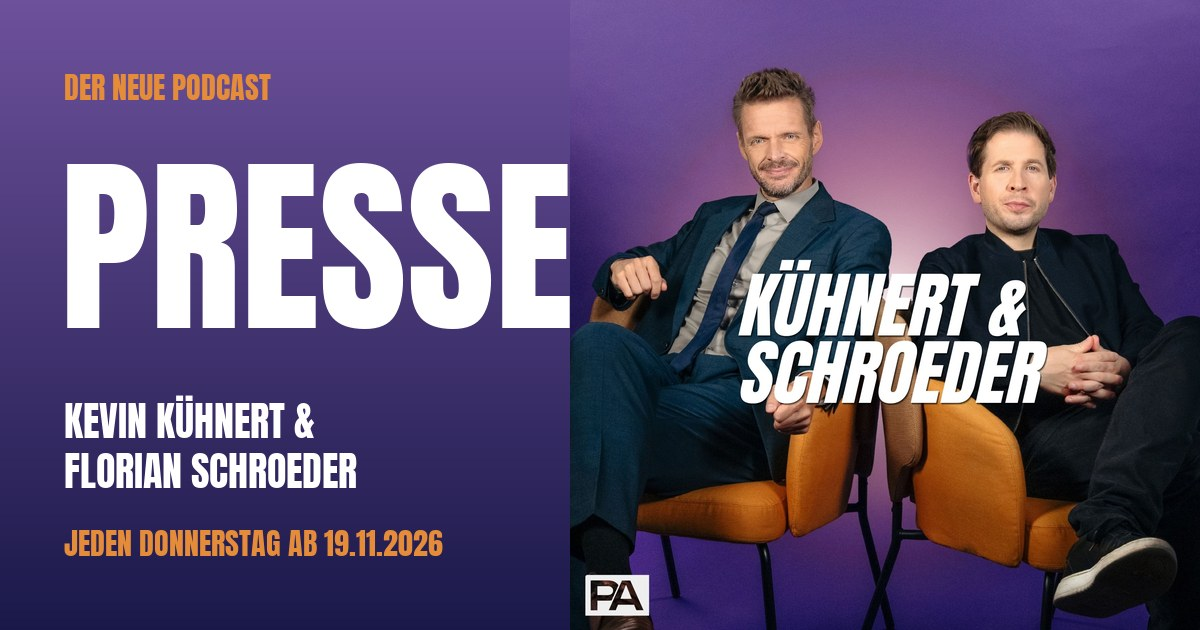
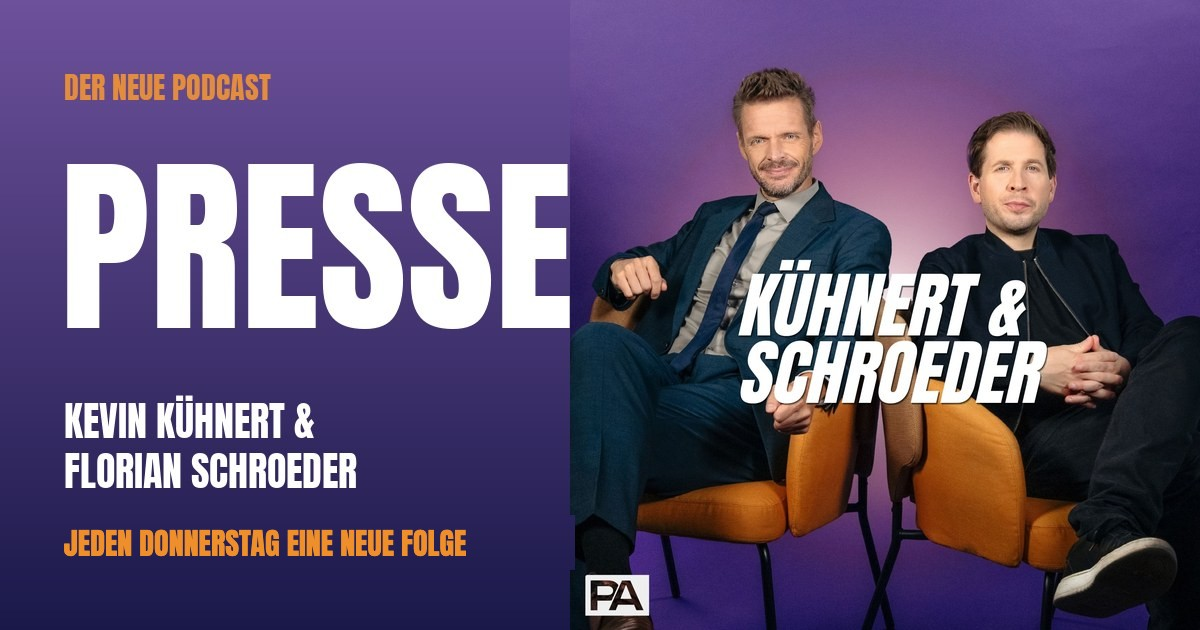
Start: Texte auf 'jeden Donnerstag eine neue Folge' umgestellt, Plattform-Links direkt im HTML, Presse-Vorschaubild ohne Startdatum

Changed region(s): [[0.0308, 0.8143, 0.4008, 0.9048], [0.4625, 0.8143, 0.4933, 0.9048]]

diff --git a/index.html b/index.html
@@ -4,7 +4,7 @@
 <meta charset="UTF-8">
 <meta name="viewport" content="width=device-width, initial-scale=1.0">
 <title>Kühnert &amp; Schroeder – Der Podcast</title>
-<meta name="description" content="Kühnert &amp; Schroeder – der neue Podcast von Kevin Kühnert und Florian Schroeder. Jeden Donnerstag ab 19. November 2026.">
+<meta name="description" content="Kühnert &amp; Schroeder – der neue Podcast von Kevin Kühnert und Florian Schroeder. Jeden Donnerstag eine neue Folge – überall, wo es Podcasts gibt.">
 <link rel="canonical" href="https://www.kuehnertundschroeder.de/">
 <meta name="theme-color" content="#1a1849">
 
@@ -13,14 +13,14 @@
 <meta property="og:site_name" content="Kühnert &amp; Schroeder">
 <meta property="og:locale" content="de_DE">
 <meta property="og:title" content="Kühnert &amp; Schroeder – Der Podcast">
-<meta property="og:description" content="Kühnert &amp; Schroeder – der neue Podcast von Kevin Kühnert und Florian Schroeder. Jeden Donnerstag ab 19. November 2026.">
+<meta property="og:description" content="Kühnert &amp; Schroeder – der neue Podcast von Kevin Kühnert und Florian Schroeder. Jeden Donnerstag eine neue Folge – überall, wo es Podcasts gibt.">
 <meta property="og:image" content="https://www.kuehnertundschroeder.de/img/og-home.jpg">
 <meta property="og:image:width" content="1200">
 <meta property="og:image:height" content="630">
 <meta property="og:image:alt" content="Podcast-Cover Kühnert &amp; Schroeder">
 <meta name="twitter:card" content="summary_large_image">
 <meta name="twitter:title" content="Kühnert &amp; Schroeder – Der Podcast">
-<meta name="twitter:description" content="Kühnert &amp; Schroeder – der neue Podcast von Kevin Kühnert und Florian Schroeder. Jeden Donnerstag ab 19. November 2026.">
+<meta name="twitter:description" content="Kühnert &amp; Schroeder – der neue Podcast von Kevin Kühnert und Florian Schroeder. Jeden Donnerstag eine neue Folge – überall, wo es Podcasts gibt.">
 <meta name="twitter:image" content="https://www.kuehnertundschroeder.de/img/og-home.jpg">
 
 <link rel="icon" href="/img/favicon.ico" sizes="any">
@@ -49,7 +49,7 @@
         <span class="line">Kühnert &amp; </span><span class="line">Schroeder</span>
       </h1>
       <p class="hero-sub"><span class="line">Der neue Podcast von </span><span class="line">Kevin Kühnert &amp; Florian Schroeder.</span></p>
-      <p class="hero-date"><span class="line">Jeden Donnerstag </span><span class="line">ab 19. November 2026</span></p>
+      <p class="hero-date"><span class="line">Jeden Donnerstag </span><span class="line">eine neue Folge</span></p>
       <div class="hero-actions">
         <a class="button button-large" href="#hoeren" data-track="hero_jetzt_hoeren">Jetzt hören</a>
       </div>
@@ -67,38 +67,38 @@
       <div>
         <p class="eyebrow">Jetzt hören</p>
         <h2 id="hoeren-title" class="section-title">Überall, wo es Podcasts gibt.</h2>
-        <p class="lead">Kühnert &amp; Schroeder gibt es überall, wo es Podcasts gibt – in Audio und Video.</p>
+        <p class="lead">Jeden Donnerstag erscheint eine neue Folge – als Audio und als Video. Einfach abonnieren und keine Folge verpassen.</p>
       </div>
       <ul class="platforms" aria-label="Podcast-Plattformen">
-      <li><a class="platform is-pending" data-platform="spotify" aria-disabled="true">
+      <li><a class="platform" data-platform="spotify" href="https://open.spotify.com/show/5epA240nGssDsUqKTvniwf" target="_blank" rel="noopener">
         <span class="platform-logo"><svg viewBox="0 0 24 24" aria-hidden="true" focusable="false"><path d="M12 0C5.4 0 0 5.4 0 12s5.4 12 12 12 12-5.4 12-12S18.66 0 12 0zm5.521 17.34c-.24.359-.66.48-1.021.24-2.82-1.74-6.36-2.101-10.561-1.141-.418.122-.779-.179-.899-.539-.12-.421.18-.78.54-.9 4.56-1.021 8.52-.6 11.64 1.32.42.18.479.659.301 1.02zm1.44-3.3c-.301.42-.841.6-1.262.3-3.239-1.98-8.159-2.58-11.939-1.38-.479.12-1.02-.12-1.14-.6-.12-.48.12-1.021.6-1.141C9.6 9.9 15 10.561 18.72 12.84c.361.181.54.78.241 1.2zm.12-3.36C15.24 8.4 8.82 8.16 5.16 9.301c-.6.179-1.2-.181-1.38-.721-.18-.601.18-1.2.72-1.381 4.26-1.26 11.28-1.02 15.721 1.621.539.3.719 1.02.419 1.56-.299.421-1.02.599-1.559.3z"/></svg></span>
         <span class="platform-name">Spotify</span>
-        <span class="platform-go">Folgt in Kürze</span>
+        <span class="platform-go" aria-hidden="true">›</span>
       </a></li>
-      <li><a class="platform is-pending" data-platform="apple" aria-disabled="true">
+      <li><a class="platform" data-platform="apple" href="https://podcasts.apple.com/us/podcast/k%C3%BChnert-schroeder/id6831165042" target="_blank" rel="noopener">
         <span class="platform-logo"><svg viewBox="0 0 24 24" aria-hidden="true" focusable="false"><path d="M5.34 0A5.328 5.328 0 000 5.34v13.32A5.328 5.328 0 005.34 24h13.32A5.328 5.328 0 0024 18.66V5.34A5.328 5.328 0 0018.66 0zm6.525 2.568c2.336 0 4.448.902 6.056 2.587 1.224 1.272 1.912 2.619 2.264 4.392.12.59.12 2.2.007 2.864a8.506 8.506 0 01-3.24 5.296c-.608.46-2.096 1.261-2.336 1.261-.088 0-.096-.091-.056-.46.072-.592.144-.715.48-.856.536-.224 1.448-.874 2.008-1.435a7.644 7.644 0 002.008-3.536c.208-.824.184-2.656-.048-3.504-.728-2.696-2.928-4.792-5.624-5.352-.784-.16-2.208-.16-3 0-2.728.56-4.984 2.76-5.672 5.528-.184.752-.184 2.584 0 3.336.456 1.832 1.64 3.512 3.192 4.512.304.2.672.408.824.472.336.144.408.264.472.856.04.36.03.464-.056.464-.056 0-.464-.176-.896-.384l-.04-.03c-2.472-1.216-4.056-3.274-4.632-6.012-.144-.706-.168-2.392-.03-3.04.36-1.74 1.048-3.1 2.192-4.304 1.648-1.737 3.768-2.656 6.128-2.656zm.134 2.81c.409.004.803.04 1.106.106 2.784.62 4.76 3.408 4.376 6.174-.152 1.114-.536 2.03-1.216 2.88-.336.43-1.152 1.15-1.296 1.15-.023 0-.048-.272-.048-.603v-.605l.416-.496c1.568-1.878 1.456-4.502-.256-6.224-.664-.67-1.432-1.064-2.424-1.246-.64-.118-.776-.118-1.448-.008-1.02.167-1.81.562-2.512 1.256-1.72 1.704-1.832 4.342-.264 6.222l.413.496v.608c0 .336-.027.608-.06.608-.03 0-.264-.16-.512-.36l-.034-.011c-.832-.664-1.568-1.842-1.872-2.997-.184-.698-.184-2.024.008-2.72.504-1.878 1.888-3.335 3.808-4.019.41-.145 1.133-.22 1.814-.211zm-.13 2.99c.31 0 .62.06.844.178.488.253.888.745 1.04 1.259.464 1.578-1.208 2.96-2.72 2.254h-.015c-.712-.331-1.096-.956-1.104-1.77 0-.733.408-1.371 1.112-1.745.224-.117.534-.176.844-.176zm-.011 4.728c.988-.004 1.706.349 1.97.97.198.464.124 1.932-.218 4.302-.232 1.656-.36 2.074-.68 2.356-.44.39-1.064.498-1.656.288h-.003c-.716-.257-.87-.605-1.164-2.644-.341-2.37-.416-3.838-.218-4.302.262-.616.974-.966 1.97-.97z"/></svg></span>
         <span class="platform-name">Apple Podcasts</span>
-        <span class="platform-go">Folgt in Kürze</span>
+        <span class="platform-go" aria-hidden="true">›</span>
       </a></li>
-      <li><a class="platform is-pending" data-platform="amazon" aria-disabled="true">
+      <li><a class="platform" data-platform="amazon" href="https://music.amazon.de/podcasts/9eaac077-c352-44f6-865f-0f1939f7d84d" target="_blank" rel="noopener">
         <span class="platform-logo"><span class="logo-amazon" aria-hidden="true"></span></span>
         <span class="platform-name">Amazon Music</span>
-        <span class="platform-go">Folgt in Kürze</span>
+        <span class="platform-go" aria-hidden="true">›</span>
       </a></li>
-      <li><a class="platform is-pending" data-platform="deezer" aria-disabled="true">
+      <li><a class="platform" data-platform="deezer" href="https://www.deezer.com/de/show/1003731681" target="_blank" rel="noopener">
         <span class="platform-logo"><svg viewBox="0 0 24 24" aria-hidden="true" focusable="false"><path d="M.693 10.024c.381 0 .693-1.256.693-2.807 0-1.55-.312-2.807-.693-2.807C.312 4.41 0 5.666 0 7.217s.312 2.808.693 2.808ZM21.038 1.56c-.364 0-.684.805-.91 2.096C19.765 1.446 19.184 0 18.526 0c-.78 0-1.464 2.036-1.784 5-.312-2.158-.788-3.536-1.325-3.536-.745 0-1.386 2.704-1.62 6.472-.442-1.932-1.083-3.145-1.793-3.145s-1.35 1.213-1.793 3.145c-.242-3.76-.874-6.463-1.628-6.463-.537 0-1.013 1.378-1.325 3.535C6.938 2.036 6.262 0 5.474 0c-.658 0-1.247 1.447-1.602 3.665-.217-1.291-.546-2.105-.91-2.105-.675 0-1.221 2.807-1.221 6.272 0 3.466.546 6.273 1.221 6.273.277 0 .537-.476.736-1.273.32 2.928.996 4.938 1.776 4.938.606 0 1.143-1.204 1.507-3.11.251 3.622.875 6.195 1.602 6.195.46 0 .875-1.023 1.187-2.677C10.142 21.6 11 24 12.004 24c1.005 0 1.863-2.4 2.235-5.822.312 1.654.727 2.677 1.186 2.677.728 0 1.352-2.573 1.603-6.195.364 1.906.9 3.11 1.507 3.11.78 0 1.455-2.01 1.775-4.938.208.797.46 1.273.737 1.273.675 0 1.22-2.807 1.22-6.273-.008-3.457-.553-6.272-1.23-6.272ZM23.307 10.024c.381 0 .693-1.256.693-2.807 0-1.55-.312-2.807-.693-2.807-.381 0-.693 1.256-.693 2.807s.312 2.808.693 2.808Z"/></svg></span>
         <span class="platform-name">Deezer</span>
-        <span class="platform-go">Folgt in Kürze</span>
+        <span class="platform-go" aria-hidden="true">›</span>
       </a></li>
-      <li><a class="platform is-pending" data-platform="youtube" aria-disabled="true">
+      <li><a class="platform" data-platform="youtube" href="https://www.youtube.com/@KuehnertundSchroeder" target="_blank" rel="noopener">
         <span class="platform-logo"><svg viewBox="0 0 24 24" aria-hidden="true" focusable="false"><path d="M23.498 6.186a3.016 3.016 0 0 0-2.122-2.136C19.505 3.545 12 3.545 12 3.545s-7.505 0-9.377.505A3.017 3.017 0 0 0 .502 6.186C0 8.07 0 12 0 12s0 3.93.502 5.814a3.016 3.016 0 0 0 2.122 2.136c1.871.505 9.376.505 9.376.505s7.505 0 9.377-.505a3.015 3.015 0 0 0 2.122-2.136C24 15.93 24 12 24 12s0-3.93-.502-5.814zM9.545 15.568V8.432L15.818 12l-6.273 3.568z"/></svg></span>
         <span class="platform-name">YouTube</span>
-        <span class="platform-go">Folgt in Kürze</span>
+        <span class="platform-go" aria-hidden="true">›</span>
       </a></li>
-      <li><a class="platform is-pending" data-platform="rtl" aria-disabled="true">
+      <li><a class="platform" data-platform="rtl" href="https://plus.rtl.de/kuhnert-schroeder-p_285238" target="_blank" rel="noopener">
         <span class="platform-logo"><svg class="logo-rtl" viewBox="0 0 40 9" preserveAspectRatio="none" aria-hidden="true" focusable="false"><g transform="scale(0.04115 0.0625) translate(-567 -498)"><path fill-rule="evenodd" d="M567 498h256v144H567zM638 610V532h80c20 0 30 11 30 27 0 15-10 25-26 27l26 24h-27l-24-23h-37v23zm22-58v16h56c7 0 10-3 10-8s-3-8-10-8z"/><path fill-rule="evenodd" d="M848 498h256v144H848zM922 532h108v20h-43v58h-22v-58h-43z"/><path fill-rule="evenodd" d="M1130 498h255v144h-255zM1210 532h22v57h74v21h-96z"/></g><path d="M36.6 1.4h1.3v2.4h2.1v1.3h-2.1v2.4h-1.3V5.1h-2.1V3.8h2.1z"/></svg></span>
         <span class="platform-name">RTL+</span>
-        <span class="platform-go">Folgt in Kürze</span>
+        <span class="platform-go" aria-hidden="true">›</span>
       </a></li>
       </ul>
     </div>

diff --git a/vorab.html b/vorab.html
@@ -4,7 +4,7 @@
 <meta charset="UTF-8">
 <meta name="viewport" content="width=device-width, initial-scale=1.0">
 <title>Vorab für die Presse | Kühnert &amp; Schroeder</title>
-<meta name="description" content="Die ersten beiden Folgen von Kühnert &amp; Schroeder vorab – exklusiv für die Presse.">
+<meta name="description" content="Folge 1 und 2 von Kühnert &amp; Schroeder zum Download – exklusiv für die Presse.">
 <meta name="robots" content="noindex, nofollow">
 <meta name="theme-color" content="#1a1849">
 
@@ -12,8 +12,8 @@
 <meta property="og:site_name" content="Kühnert &amp; Schroeder">
 <meta property="og:locale" content="de_DE">
 <meta property="og:title" content="Vorab für die Presse | Kühnert &amp; Schroeder">
-<meta property="og:description" content="Die ersten beiden Folgen von Kühnert &amp; Schroeder vorab – exklusiv für die Presse.">
-<meta property="og:image" content="https://www.kuehnertundschroeder.de/img/og-presse.jpg">
+<meta property="og:description" content="Folge 1 und 2 von Kühnert &amp; Schroeder zum Download – exklusiv für die Presse.">
+<meta property="og:image" content="https://www.kuehnertundschroeder.de/img/og-presse.jpg?v=2">
 <meta property="og:image:width" content="1200">
 <meta property="og:image:height" content="630">
 <meta property="og:image:alt" content="Kühnert &amp; Schroeder">
@@ -46,8 +46,8 @@
       <h1 id="hero-title" class="wordmark">
         <span class="line">Kühnert &amp; </span><span class="line">Schroeder</span>
       </h1>
-      <p class="hero-sub"><span class="line">Die ersten beiden Folgen vorab – </span><span class="line">exklusiv für die Presse.</span></p>
-      <p class="hero-date"><span class="line">Jeden Donnerstag </span><span class="line">ab 19. November 2026</span></p>
+      <p class="hero-sub"><span class="line">Folge 1 und 2 zum Download – </span><span class="line">exklusiv für die Presse.</span></p>
+      <p class="hero-date"><span class="line">Jeden Donnerstag </span><span class="line">eine neue Folge</span></p>
       <div class="hero-actions">
         <a class="button button-large" href="https://web.tresorit.com/l/ONJGL#eEtygWU8MTOjBCXIQpPowA" data-track="vorab_folge1" target="_blank" rel="noopener"
            aria-label="Download Folge 1 (öffnet Tresorit in neuem Tab)">

diff --git a/presse.html b/presse.html
@@ -14,14 +14,14 @@
 <meta property="og:locale" content="de_DE">
 <meta property="og:title" content="Presse | Kühnert &amp; Schroeder">
 <meta property="og:description" content="Presseinformationen, Pressefotos und Downloads zum Podcast Kühnert &amp; Schroeder mit Kevin Kühnert und Florian Schroeder.">
-<meta property="og:image" content="https://www.kuehnertundschroeder.de/img/og-presse.jpg">
+<meta property="og:image" content="https://www.kuehnertundschroeder.de/img/og-presse.jpg?v=2">
 <meta property="og:image:width" content="1200">
 <meta property="og:image:height" content="630">
 <meta property="og:image:alt" content="Kühnert &amp; Schroeder – Presse">
 <meta name="twitter:card" content="summary_large_image">
 <meta name="twitter:title" content="Presse | Kühnert &amp; Schroeder">
 <meta name="twitter:description" content="Presseinformationen, Pressefotos und Downloads zum Podcast Kühnert &amp; Schroeder mit Kevin Kühnert und Florian Schroeder.">
-<meta name="twitter:image" content="https://www.kuehnertundschroeder.de/img/og-presse.jpg">
+<meta name="twitter:image" content="https://www.kuehnertundschroeder.de/img/og-presse.jpg?v=2">
 
 <link rel="icon" href="/img/favicon.ico" sizes="any">
 <link rel="icon" type="image/png" sizes="16x16" href="/img/favicon-16x16.png">
@@ -50,7 +50,7 @@
         <span class="line">Kühnert &amp; </span><span class="line">Schroeder</span>
       </h1>
       <p class="hero-sub"><span class="line">Der neue Podcast von </span><span class="line">Kevin Kühnert &amp; Florian Schroeder.</span></p>
-      <p class="hero-date"><span class="line">Jeden Donnerstag </span><span class="line">ab 19. November 2026</span></p>
+      <p class="hero-date"><span class="line">Jeden Donnerstag </span><span class="line">eine neue Folge</span></p>
       <div class="hero-actions">
         <a class="button button-large" href="https://web.tresorit.com/l/RP6ip#YKVqfWy77ulPY-eOzIOCBA" data-track="presse_pressemappe" target="_blank" rel="noopener"
            aria-label="Pressemappe inklusive Pressemitteilung downloaden (öffnet Tresorit in neuem Tab)">

diff --git a/js/config.js b/js/config.js
@@ -1,6 +1,7 @@
 /*
  * Podcast-Links – hier die finalen URLs eintragen.
- * Solange ein Link "#" ist, zeigt die Startseite „Folgt in Kürze“ und der Eintrag ist nicht klickbar.
+ * Die Links stehen zusätzlich direkt in index.html (damit sie auch ohne JavaScript funktionieren).
+ * Bei einer Änderung bitte beide Stellen anpassen. Ein Link "#" zeigt „Folgt in Kürze“ (nur mit JavaScript).
  */
 const podcastLinks = {
   spotify: "https://open.spotify.com/show/5epA240nGssDsUqKTvniwf",

diff --git a/README.md b/README.md
@@ -35,7 +35,7 @@ const podcastLinks = {
 };
 ```
 
-Solange ein Link `"#"` ist, zeigt die Startseite „Folgt in Kürze“ und der Eintrag ist nicht klickbar.
+Die Links stehen zusätzlich direkt in `index.html` (funktionieren so auch ohne JavaScript) – bei Änderungen beide Stellen anpassen.
 
 Logos: Spotify, Apple Podcasts, Deezer und YouTube stammen aus [Simple Icons](https://simpleicons.org) (CC0). Das RTL+-Logo ist einfarbig nach der Vorlage von RTL nachgezeichnet (`.logo-rtl`).
 Das Amazon-Music-Logo steckt als Maske in `css/style.css` (`.logo-amazon`).
@@ -73,3 +73,7 @@ npx serve .
 1. Repo auf GitHub anlegen und pushen.
 2. In Vercel „Add New → Project“, Repo importieren. Framework: *Other*, kein Build-Befehl.
 3. Unter *Settings → Domains* `www.kuehnertundschroeder.de` (und `kuehnertundschroeder.de`) hinzufügen und die DNS-Einträge beim Domain-Anbieter setzen.
+
+## Versteckte Seite /vorab
+
+`vorab.html` bietet der Presse Folge 1 und 2 per Tresorit-Link (passwortgeschützt) zum Download. Die Seite ist nirgends verlinkt und für Suchmaschinen gesperrt (`noindex` im HTML und als `X-Robots-Tag` in `vercel.json`).
